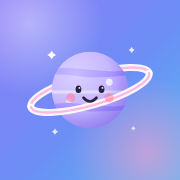
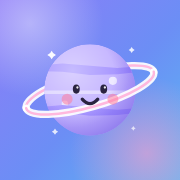
行星统一大小

Changed region(s): [[0.1111, 0.2222, 0.8889, 0.75]]

diff --git a/planets.js b/planets.js
@@ -4,7 +4,7 @@
 
 const PLANET_PERIOD = 2.4;
 /** key、中英文名、颜色、自转秒数（dir = -1 倒着转）、花纹、环、脸的颜色。最后一颗是紫色的品牌星。 */
-const PLANETS = [{"key":"mercury","zh":"水星","en":"Mercury","body":"#B9B4C9","shade":"#7E7894","dur":50,"dir":1,"scale":1.0,"extent":1.0,"spin":[["M-0.75,-0.35 A0.2,0.2 0 1,0 -0.35,-0.35 A0.2,0.2 0 1,0 -0.75,-0.35 Z","#9C96B0",1.0],["M0.11,0.45 A0.24,0.24 0 1,0 0.59,0.45 A0.24,0.24 0 1,0 0.11,0.45 Z","#9C96B0",1.0],["M0.38,-0.5 A0.12,0.12 0 1,0 0.62,-0.5 A0.12,0.12 0 1,0 0.38,-0.5 Z","#9C96B0",1.0],["M-1,0.5 A0.15,0.15 0 1,0 -0.7,0.5 A0.15,0.15 0 1,0 -1,0.5 Z","#9C96B0",1.0],["M0.87,0 A0.13,0.13 0 1,0 1.13,0 A0.13,0.13 0 1,0 0.87,0 Z","#9C96B0",1.0],["M-0.2,-0.75 A0.1,0.1 0 1,0 0,-0.75 A0.1,0.1 0 1,0 -0.2,-0.75 Z","#A8A2BB",1.0]],"fixed":[],"rings":[],"face":{"eye":"#2A2340","mouth":"#2A2340","blush":"#FF7E9D","blushA":0.55}},{"key":"venus","zh":"金星","en":"Venus","body":"#F5C66E","shade":"#C98A2E","dur":60,"dir":-1,"scale":1.0,"extent":1.0,"spin":[["M-0.214,-0.12 C-0.221,-0.096,-0.261,-0.076,-0.309,-0.056 C-0.357,-0.037,-0.438,-0.002,-0.5,-0.002 C-0.562,-0.003,-0.633,-0.039,-0.683,-0.059 C-0.733,-0.079,-0.792,-0.097,-0.802,-0.12 C-0.811,-0.143,-0.79,-0.186,-0.74,-0.2 C-0.689,-0.214,-0.579,-0.202,-0.5,-0.202 C-0.421,-0.202,-0.312,-0.212,-0.265,-0.198 C-0.217,-0.185,-0.206,-0.144,-0.214,-0.12 Z","#FFF0CC",0.85],["M0.833,0.3 C0.839,0.32,0.792,0.355,0.744,0.367 C0.697,0.38,0.618,0.374,0.55,0.375 C0.482,0.376,0.377,0.387,0.336,0.374 C0.295,0.361,0.296,0.322,0.303,0.3 C0.311,0.278,0.342,0.26,0.383,0.242 C0.425,0.225,0.496,0.194,0.55,0.194 C0.604,0.195,0.661,0.228,0.708,0.245 C0.755,0.263,0.827,0.28,0.833,0.3 Z","#FFF0CC",0.8],["M1.157,-0.4 C1.154,-0.382,1.152,-0.364,1.126,-0.351 C1.1,-0.338,1.038,-0.319,1,-0.32 C0.962,-0.321,0.928,-0.346,0.895,-0.359 C0.862,-0.373,0.808,-0.385,0.803,-0.4 C0.798,-0.415,0.833,-0.442,0.866,-0.452 C0.899,-0.462,0.953,-0.458,1,-0.459 C1.047,-0.46,1.122,-0.467,1.148,-0.458 C1.175,-0.448,1.161,-0.418,1.157,-0.4 Z","#E9A94F",0.9]],"fixed":[["M-2.4,-0.55 L-1.8,-0.49 L-1.2,-0.55 L-0.6,-0.61 L0,-0.55 L0.6,-0.49 L1.2,-0.55 L1.8,-0.61 L2.4,-0.55 L2.4,-0.3 L1.8,-0.382 L1.2,-0.4 L0.6,-0.318 L0,-0.3 L-0.6,-0.382 L-1.2,-0.4 L-1.8,-0.318 L-2.4,-0.3 Z","#FBE2A8",1.0],["M-2.4,-0.03 L-1.8,0.04 L-1.2,-0.03 L-0.6,-0.1 L0,-0.03 L0.6,0.04 L1.2,-0.03 L1.8,-0.1 L2.4,-0.03 L2.4,0.189 L1.8,0.092 L1.2,0.071 L0.6,0.168 L0,0.189 L-0.6,0.092 L-1.2,0.071 L-1.8,0.168 L-2.4,0.189 Z","#EDB458",1.0],["M-2.4,0.39 L-1.8,0.44 L-1.2,0.39 L-0.6,0.34 L0,0.39 L0.6,0.44 L1.2,0.39 L1.8,0.34 L2.4,0.39 L2.4,0.652 L1.8,0.583 L1.2,0.568 L0.6,0.637 L0,0.652 L-0.6,0.583 L-1.2,0.568 L-1.8,0.637 L-2.4,0.652 Z","#FBE2A8",0.9]],"rings":[],"face":{"eye":"#2A2340","mouth":"#2A2340","blush":"#FF7E9D","blushA":0.55}},{"key":"earth","zh":"地球","en":"Earth","body":"#4DA3F0","shade":"#2563B8","dur":22,"dir":1,"scale":1.0,"extent":1.0,"spin":[["M-0.149,-0.35 C-0.16,-0.279,-0.216,-0.218,-0.282,-0.159 C-0.349,-0.1,-0.463,0.005,-0.55,0.003 C-0.637,0.002,-0.736,-0.108,-0.806,-0.167 C-0.876,-0.226,-0.959,-0.28,-0.973,-0.35 C-0.986,-0.42,-0.956,-0.549,-0.886,-0.59 C-0.815,-0.631,-0.661,-0.597,-0.55,-0.596 C-0.439,-0.595,-0.287,-0.626,-0.221,-0.585 C-0.154,-0.544,-0.139,-0.421,-0.149,-0.35 Z","#5CCB8E",1.0],["M0.885,0.42 C0.881,0.485,0.744,0.548,0.671,0.606 C0.599,0.665,0.534,0.761,0.45,0.769 C0.366,0.778,0.22,0.717,0.167,0.659 C0.114,0.6,0.137,0.504,0.132,0.42 C0.128,0.336,0.084,0.207,0.137,0.157 C0.19,0.106,0.357,0.108,0.45,0.118 C0.543,0.127,0.622,0.164,0.694,0.214 C0.767,0.265,0.888,0.355,0.885,0.42 Z","#5CCB8E",1.0],["M1.228,-0.45 C1.231,-0.408,1.246,-0.34,1.217,-0.317 C1.187,-0.293,1.101,-0.307,1.05,-0.31 C0.999,-0.314,0.948,-0.315,0.91,-0.338 C0.872,-0.361,0.818,-0.416,0.822,-0.45 C0.826,-0.484,0.896,-0.514,0.934,-0.543 C0.972,-0.572,1.006,-0.621,1.05,-0.625 C1.094,-0.63,1.169,-0.598,1.198,-0.569 C1.228,-0.539,1.225,-0.492,1.228,-0.45 Z","#5CCB8E",1.0],["M0.133,0.05 C0.134,0.069,0.161,0.096,0.131,0.108 C0.1,0.119,0.004,0.119,-0.05,0.117 C-0.104,0.114,-0.147,0.106,-0.191,0.095 C-0.234,0.084,-0.31,0.065,-0.309,0.05 C-0.308,0.035,-0.227,0.019,-0.184,0.007 C-0.141,-0.004,-0.102,-0.018,-0.05,-0.021 C0.002,-0.023,0.095,-0.018,0.125,-0.006 C0.156,0.006,0.132,0.031,0.133,0.05 Z","#FFFFFF",0.75],["M-0.621,0.55 C-0.627,0.565,-0.701,0.578,-0.748,0.591 C-0.794,0.605,-0.845,0.63,-0.9,0.631 C-0.955,0.632,-1.038,0.611,-1.077,0.598 C-1.116,0.584,-1.126,0.568,-1.132,0.55 C-1.139,0.532,-1.156,0.502,-1.117,0.492 C-1.078,0.482,-0.967,0.488,-0.9,0.489 C-0.833,0.491,-0.763,0.491,-0.717,0.501 C-0.67,0.511,-0.616,0.535,-0.621,0.55 Z","#FFFFFF",0.7]],"fixed":[],"rings":[],"face":{"eye":"#2A2340","mouth":"#2A2340","blush":"#FF7E9D","blushA":0.55}},{"key":"mars","zh":"火星","en":"Mars","body":"#EC6E45","shade":"#A83D20","dur":23,"dir":1,"scale":1.0,"extent":1.0,"spin":[["M-0.173,0.35 C-0.166,0.391,-0.221,0.46,-0.276,0.485 C-0.33,0.51,-0.421,0.498,-0.5,0.5 C-0.579,0.502,-0.699,0.523,-0.747,0.498 C-0.794,0.473,-0.794,0.394,-0.784,0.35 C-0.775,0.306,-0.74,0.27,-0.692,0.235 C-0.645,0.199,-0.562,0.137,-0.5,0.138 C-0.438,0.139,-0.372,0.205,-0.318,0.241 C-0.264,0.276,-0.18,0.309,-0.173,0.35 Z","#CC5532",1.0],["M0.804,-0.25 C0.808,-0.221,0.743,-0.175,0.7,-0.154 C0.658,-0.134,0.606,-0.129,0.55,-0.125 C0.494,-0.122,0.398,-0.112,0.367,-0.133 C0.335,-0.154,0.354,-0.214,0.359,-0.25 C0.363,-0.286,0.363,-0.322,0.395,-0.348 C0.427,-0.375,0.503,-0.412,0.55,-0.409 C0.597,-0.406,0.636,-0.358,0.678,-0.331 C0.72,-0.305,0.8,-0.279,0.804,-0.25 Z","#CC5532",1.0],["M1.262,0.5 C1.263,0.524,1.195,0.553,1.16,0.573 C1.125,0.593,1.092,0.617,1.05,0.62 C1.008,0.624,0.931,0.616,0.906,0.596 C0.881,0.576,0.902,0.532,0.902,0.5 C0.903,0.468,0.885,0.427,0.909,0.406 C0.934,0.385,1.009,0.372,1.05,0.376 C1.091,0.379,1.122,0.408,1.157,0.428 C1.193,0.449,1.262,0.476,1.262,0.5 Z","#D9603B",1.0]],"fixed":[["M-0.42,-0.95 A0.42,0.2 0 1,0 0.42,-0.95 A0.42,0.2 0 1,0 -0.42,-0.95 Z","#FFF3EC",1.0]],"rings":[],"face":{"eye":"#2A2340","mouth":"#2A2340","blush":"#FF7E9D","blushA":0.55}},{"key":"jupiter","zh":"木星","en":"Jupiter","body":"#EDBB86","shade":"#B5793F","dur":14,"dir":1,"scale":1.0,"extent":1.0,"spin":[["M0.2,0.6 A0.22,0.11 0 1,0 0.64,0.6 A0.22,0.11 0 1,0 0.2,0.6 Z","#CF5B3E",1.0],["M-0.72,-0.3 A0.12,0.05 0 1,0 -0.48,-0.3 A0.12,0.05 0 1,0 -0.72,-0.3 Z","#FFF3E4",0.9],["M-1.05,0.42 A0.1,0.045 0 1,0 -0.85,0.42 A0.1,0.045 0 1,0 -1.05,0.42 Z","#FFF3E4",0.85]],"fixed":[["M-2.4,-0.7 L-1.8,-0.67 L-1.2,-0.7 L-0.6,-0.73 L0,-0.7 L0.6,-0.67 L1.2,-0.7 L1.8,-0.73 L2.4,-0.7 L2.4,-0.515 L1.8,-0.556 L1.2,-0.565 L0.6,-0.524 L0,-0.515 L-0.6,-0.556 L-1.2,-0.565 L-1.8,-0.524 L-2.4,-0.515 Z","#D69460",1.0],["M-2.4,-0.35 L2.4,-0.35 L2.4,-0.25 L-2.4,-0.25 Z","#F7DAB8",1.0],["M-2.4,0.33 L-1.8,0.37 L-1.2,0.33 L-0.6,0.29 L0,0.33 L0.6,0.37 L1.2,0.33 L1.8,0.29 L2.4,0.33 L2.4,0.544 L1.8,0.488 L1.2,0.476 L0.6,0.532 L0,0.544 L-0.6,0.488 L-1.2,0.476 L-1.8,0.532 L-2.4,0.544 Z","#D69460",1.0],["M-2.4,0.7 L2.4,0.7 L2.4,0.8 L-2.4,0.8 Z","#F7DAB8",1.0]],"rings":[],"face":{"eye":"#2A2340","mouth":"#2A2340","blush":"#FF7E9D","blushA":0.55}},{"key":"saturn","zh":"土星","en":"Saturn","body":"#F3D27F","shade":"#C49A3A","dur":15,"dir":1,"scale":0.82,"extent":1.3735,"spin":[["M0.41,-0.48 A0.14,0.06 0 1,0 0.69,-0.48 A0.14,0.06 0 1,0 0.41,-0.48 Z","#FFF4D6",0.85]],"fixed":[["M-2.4,-0.57 L2.4,-0.57 L2.4,-0.43 L-2.4,-0.43 Z","#E6BC62",0.8],["M-2.4,0.49 L2.4,0.49 L2.4,0.61 L-2.4,0.61 Z","#E6BC62",0.8]],"rings":[["M1.572,-0.392 A1.62,0.42 -14 0,0 -1.572,0.392","M1.572,-0.392 A1.62,0.42 -14 0,1 -1.572,0.392",0.2,"#D8B262",1],["M1.572,-0.392 A1.62,0.42 -14 0,0 -1.572,0.392","M1.572,-0.392 A1.62,0.42 -14 0,1 -1.572,0.392",0.07,"#FFF0C4",1]],"face":{"eye":"#2A2340","mouth":"#2A2340","blush":"#FF7E9D","blushA":0.55}},{"key":"uranus","zh":"天王星","en":"Uranus","body":"#84DDE3","shade":"#3FA3AE","dur":18,"dir":-1,"scale":0.92,"extent":1.30088,"spin":[["M-0.57,0.35 A0.12,0.05 0 1,0 -0.33,0.35 A0.12,0.05 0 1,0 -0.57,0.35 Z","#D4F7F8",0.8]],"fixed":[["M-2.4,-0.62 L2.4,-0.62 L2.4,-0.48 L-2.4,-0.48 Z","#A8ECEF",0.9]],"rings":[["M0.344,-1.378 A1.42,0.28 -76 0,0 -0.344,1.378","M0.344,-1.378 A1.42,0.28 -76 0,1 -0.344,1.378",0.07,"#5FBFC8",1]],"face":{"eye":"#2A2340","mouth":"#2A2340","blush":"#FF7E9D","blushA":0.55}},{"key":"neptune","zh":"海王星","en":"Neptune","body":"#5A6BE6","shade":"#2C36A8","dur":18,"dir":1,"scale":1.0,"extent":1.0,"spin":[["M0.21,-0.45 A0.24,0.13 0 1,0 0.69,-0.45 A0.24,0.13 0 1,0 0.21,-0.45 Z","#3B49B8",1.0],["M0.48,-0.25 A0.14,0.04 0 1,0 0.76,-0.25 A0.14,0.04 0 1,0 0.48,-0.25 Z","#E6EAFF",0.9],["M-0.86,0.45 A0.16,0.045 0 1,0 -0.54,0.45 A0.16,0.045 0 1,0 -0.86,0.45 Z","#C9D0FF",0.8]],"fixed":[["M-2.4,0.47 L-1.8,0.5 L-1.2,0.47 L-0.6,0.44 L0,0.47 L0.6,0.5 L1.2,0.47 L1.8,0.44 L2.4,0.47 L2.4,0.555 L1.8,0.514 L1.2,0.505 L0.6,0.546 L0,0.555 L-0.6,0.514 L-1.2,0.505 L-1.8,0.546 L-2.4,0.555 Z","#8D9BFF",0.85],["M-2.4,-0.17 L-1.8,-0.15 L-1.2,-0.17 L-0.6,-0.19 L0,-0.17 L0.6,-0.15 L1.2,-0.17 L1.8,-0.19 L2.4,-0.17 L2.4,-0.113 L1.8,-0.141 L1.2,-0.147 L0.6,-0.119 L0,-0.113 L-0.6,-0.141 L-1.2,-0.147 L-1.8,-0.119 L-2.4,-0.113 Z","#7F8CF5",0.7]],"rings":[],"face":{"eye":"#FFFFFF","mouth":"#FFFFFF","blush":"#FFA6C1","blushA":0.7}},{"key":"pluto","zh":"冥王星","en":"Pluto","body":"#DCC1A2","shade":"#9B7A5A","dur":40,"dir":1,"scale":0.92,"extent":0.92,"spin":[["M0.42,0.944 C-0.048,0.656,0.096,0.296,0.42,0.494 C0.744,0.296,0.888,0.656,0.42,0.944 Z","#F8ECDC",1.0],["M-0.338,-0.3 C-0.344,-0.249,-0.347,-0.198,-0.39,-0.16 C-0.434,-0.122,-0.536,-0.068,-0.6,-0.072 C-0.664,-0.076,-0.72,-0.146,-0.775,-0.184 C-0.829,-0.222,-0.92,-0.256,-0.928,-0.3 C-0.936,-0.344,-0.878,-0.421,-0.823,-0.449 C-0.768,-0.477,-0.678,-0.465,-0.6,-0.467 C-0.522,-0.47,-0.396,-0.493,-0.353,-0.465 C-0.309,-0.437,-0.332,-0.351,-0.338,-0.3 Z","#B8977A",1.0],["M-0.733,0.55 C-0.733,0.582,-0.708,0.63,-0.736,0.649 C-0.763,0.668,-0.851,0.668,-0.9,0.664 C-0.949,0.66,-0.989,0.646,-1.028,0.627 C-1.067,0.608,-1.137,0.575,-1.136,0.55 C-1.134,0.525,-1.061,0.497,-1.022,0.477 C-0.982,0.457,-0.947,0.433,-0.9,0.429 C-0.853,0.425,-0.768,0.434,-0.74,0.454 C-0.713,0.474,-0.734,0.518,-0.733,0.55 Z","#C4A386",1.0]],"fixed":[],"rings":[],"face":{"eye":"#2A2340","mouth":"#2A2340","blush":"#FF7E9D","blushA":0.55}},{"key":"brand","zh":"行星","en":"Planet","body":"#BFAEFF","shade":"#6A55E0","dur":20,"dir":1,"scale":0.84,"extent":1.3708799999999999,"spin":[["M0.41,-0.2 A0.09,0.09 0 1,0 0.59,-0.2 A0.09,0.09 0 1,0 0.41,-0.2 Z","#FFFFFF",0.7],["M-0.62,0.3 A0.07,0.07 0 1,0 -0.48,0.3 A0.07,0.07 0 1,0 -0.62,0.3 Z","#FFFFFF",0.6],["M0.94,0.45 A0.06,0.06 0 1,0 1.06,0.45 A0.06,0.06 0 1,0 0.94,0.45 Z","#FFFFFF",0.6]],"fixed":[["M-2.4,-0.53 L-1.8,-0.48 L-1.2,-0.53 L-0.6,-0.58 L0,-0.53 L0.6,-0.48 L1.2,-0.53 L1.8,-0.58 L2.4,-0.53 L2.4,-0.328 L1.8,-0.397 L1.2,-0.412 L0.6,-0.343 L0,-0.328 L-0.6,-0.397 L-1.2,-0.412 L-1.8,-0.343 L-2.4,-0.328 Z","#9E8BFF",1.0],["M-2.4,0.38 L-1.8,0.43 L-1.2,0.38 L-0.6,0.33 L0,0.38 L0.6,0.43 L1.2,0.38 L1.8,0.33 L2.4,0.38 L2.4,0.562 L1.8,0.493 L1.2,0.478 L0.6,0.547 L0,0.562 L-0.6,0.493 L-1.2,0.478 L-1.8,0.547 L-2.4,0.562 Z","#9E8BFF",1.0],["M-2.4,0.01 L2.4,0.01 L2.4,0.09 L-2.4,0.09 Z","#DCD3FF",1.0]],"rings":[["M1.538,-0.441 A1.6,0.4 -16 0,0 -1.538,0.441","M1.538,-0.441 A1.6,0.4 -16 0,1 -1.538,0.441",0.18,"#FFFFFF",0.92],["M1.538,-0.441 A1.6,0.4 -16 0,0 -1.538,0.441","M1.538,-0.441 A1.6,0.4 -16 0,1 -1.538,0.441",0.06,"#FFB8DE",1]],"face":{"eye":"#2A2340","mouth":"#2A2340","blush":"#FF7E9D","blushA":0.55}}];
+const PLANETS = [{"key":"mercury","zh":"水星","en":"Mercury","body":"#B9B4C9","shade":"#7E7894","dur":50,"dir":1,"scale":1.0,"extent":1.06,"spin":[["M-0.75,-0.35 A0.2,0.2 0 1,0 -0.35,-0.35 A0.2,0.2 0 1,0 -0.75,-0.35 Z","#9C96B0",1.0],["M0.11,0.45 A0.24,0.24 0 1,0 0.59,0.45 A0.24,0.24 0 1,0 0.11,0.45 Z","#9C96B0",1.0],["M0.38,-0.5 A0.12,0.12 0 1,0 0.62,-0.5 A0.12,0.12 0 1,0 0.38,-0.5 Z","#9C96B0",1.0],["M-1,0.5 A0.15,0.15 0 1,0 -0.7,0.5 A0.15,0.15 0 1,0 -1,0.5 Z","#9C96B0",1.0],["M0.87,0 A0.13,0.13 0 1,0 1.13,0 A0.13,0.13 0 1,0 0.87,0 Z","#9C96B0",1.0],["M-0.2,-0.75 A0.1,0.1 0 1,0 0,-0.75 A0.1,0.1 0 1,0 -0.2,-0.75 Z","#A8A2BB",1.0]],"fixed":[],"rings":[],"face":{"eye":"#2A2340","mouth":"#2A2340","blush":"#FF7E9D","blushA":0.55}},{"key":"venus","zh":"金星","en":"Venus","body":"#F5C66E","shade":"#C98A2E","dur":60,"dir":-1,"scale":1.0,"extent":1.06,"spin":[["M-0.214,-0.12 C-0.221,-0.096,-0.261,-0.076,-0.309,-0.056 C-0.357,-0.037,-0.438,-0.002,-0.5,-0.002 C-0.562,-0.003,-0.633,-0.039,-0.683,-0.059 C-0.733,-0.079,-0.792,-0.097,-0.802,-0.12 C-0.811,-0.143,-0.79,-0.186,-0.74,-0.2 C-0.689,-0.214,-0.579,-0.202,-0.5,-0.202 C-0.421,-0.202,-0.312,-0.212,-0.265,-0.198 C-0.217,-0.185,-0.206,-0.144,-0.214,-0.12 Z","#FFF0CC",0.85],["M0.833,0.3 C0.839,0.32,0.792,0.355,0.744,0.367 C0.697,0.38,0.618,0.374,0.55,0.375 C0.482,0.376,0.377,0.387,0.336,0.374 C0.295,0.361,0.296,0.322,0.303,0.3 C0.311,0.278,0.342,0.26,0.383,0.242 C0.425,0.225,0.496,0.194,0.55,0.194 C0.604,0.195,0.661,0.228,0.708,0.245 C0.755,0.263,0.827,0.28,0.833,0.3 Z","#FFF0CC",0.8],["M1.157,-0.4 C1.154,-0.382,1.152,-0.364,1.126,-0.351 C1.1,-0.338,1.038,-0.319,1,-0.32 C0.962,-0.321,0.928,-0.346,0.895,-0.359 C0.862,-0.373,0.808,-0.385,0.803,-0.4 C0.798,-0.415,0.833,-0.442,0.866,-0.452 C0.899,-0.462,0.953,-0.458,1,-0.459 C1.047,-0.46,1.122,-0.467,1.148,-0.458 C1.175,-0.448,1.161,-0.418,1.157,-0.4 Z","#E9A94F",0.9]],"fixed":[["M-2.4,-0.55 L-1.8,-0.49 L-1.2,-0.55 L-0.6,-0.61 L0,-0.55 L0.6,-0.49 L1.2,-0.55 L1.8,-0.61 L2.4,-0.55 L2.4,-0.3 L1.8,-0.382 L1.2,-0.4 L0.6,-0.318 L0,-0.3 L-0.6,-0.382 L-1.2,-0.4 L-1.8,-0.318 L-2.4,-0.3 Z","#FBE2A8",1.0],["M-2.4,-0.03 L-1.8,0.04 L-1.2,-0.03 L-0.6,-0.1 L0,-0.03 L0.6,0.04 L1.2,-0.03 L1.8,-0.1 L2.4,-0.03 L2.4,0.189 L1.8,0.092 L1.2,0.071 L0.6,0.168 L0,0.189 L-0.6,0.092 L-1.2,0.071 L-1.8,0.168 L-2.4,0.189 Z","#EDB458",1.0],["M-2.4,0.39 L-1.8,0.44 L-1.2,0.39 L-0.6,0.34 L0,0.39 L0.6,0.44 L1.2,0.39 L1.8,0.34 L2.4,0.39 L2.4,0.652 L1.8,0.583 L1.2,0.568 L0.6,0.637 L0,0.652 L-0.6,0.583 L-1.2,0.568 L-1.8,0.637 L-2.4,0.652 Z","#FBE2A8",0.9]],"rings":[],"face":{"eye":"#2A2340","mouth":"#2A2340","blush":"#FF7E9D","blushA":0.55}},{"key":"earth","zh":"地球","en":"Earth","body":"#4DA3F0","shade":"#2563B8","dur":22,"dir":1,"scale":1.0,"extent":1.06,"spin":[["M-0.149,-0.35 C-0.16,-0.279,-0.216,-0.218,-0.282,-0.159 C-0.349,-0.1,-0.463,0.005,-0.55,0.003 C-0.637,0.002,-0.736,-0.108,-0.806,-0.167 C-0.876,-0.226,-0.959,-0.28,-0.973,-0.35 C-0.986,-0.42,-0.956,-0.549,-0.886,-0.59 C-0.815,-0.631,-0.661,-0.597,-0.55,-0.596 C-0.439,-0.595,-0.287,-0.626,-0.221,-0.585 C-0.154,-0.544,-0.139,-0.421,-0.149,-0.35 Z","#5CCB8E",1.0],["M0.885,0.42 C0.881,0.485,0.744,0.548,0.671,0.606 C0.599,0.665,0.534,0.761,0.45,0.769 C0.366,0.778,0.22,0.717,0.167,0.659 C0.114,0.6,0.137,0.504,0.132,0.42 C0.128,0.336,0.084,0.207,0.137,0.157 C0.19,0.106,0.357,0.108,0.45,0.118 C0.543,0.127,0.622,0.164,0.694,0.214 C0.767,0.265,0.888,0.355,0.885,0.42 Z","#5CCB8E",1.0],["M1.228,-0.45 C1.231,-0.408,1.246,-0.34,1.217,-0.317 C1.187,-0.293,1.101,-0.307,1.05,-0.31 C0.999,-0.314,0.948,-0.315,0.91,-0.338 C0.872,-0.361,0.818,-0.416,0.822,-0.45 C0.826,-0.484,0.896,-0.514,0.934,-0.543 C0.972,-0.572,1.006,-0.621,1.05,-0.625 C1.094,-0.63,1.169,-0.598,1.198,-0.569 C1.228,-0.539,1.225,-0.492,1.228,-0.45 Z","#5CCB8E",1.0],["M0.133,0.05 C0.134,0.069,0.161,0.096,0.131,0.108 C0.1,0.119,0.004,0.119,-0.05,0.117 C-0.104,0.114,-0.147,0.106,-0.191,0.095 C-0.234,0.084,-0.31,0.065,-0.309,0.05 C-0.308,0.035,-0.227,0.019,-0.184,0.007 C-0.141,-0.004,-0.102,-0.018,-0.05,-0.021 C0.002,-0.023,0.095,-0.018,0.125,-0.006 C0.156,0.006,0.132,0.031,0.133,0.05 Z","#FFFFFF",0.75],["M-0.621,0.55 C-0.627,0.565,-0.701,0.578,-0.748,0.591 C-0.794,0.605,-0.845,0.63,-0.9,0.631 C-0.955,0.632,-1.038,0.611,-1.077,0.598 C-1.116,0.584,-1.126,0.568,-1.132,0.55 C-1.139,0.532,-1.156,0.502,-1.117,0.492 C-1.078,0.482,-0.967,0.488,-0.9,0.489 C-0.833,0.491,-0.763,0.491,-0.717,0.501 C-0.67,0.511,-0.616,0.535,-0.621,0.55 Z","#FFFFFF",0.7]],"fixed":[],"rings":[],"face":{"eye":"#2A2340","mouth":"#2A2340","blush":"#FF7E9D","blushA":0.55}},{"key":"mars","zh":"火星","en":"Mars","body":"#EC6E45","shade":"#A83D20","dur":23,"dir":1,"scale":1.0,"extent":1.06,"spin":[["M-0.173,0.35 C-0.166,0.391,-0.221,0.46,-0.276,0.485 C-0.33,0.51,-0.421,0.498,-0.5,0.5 C-0.579,0.502,-0.699,0.523,-0.747,0.498 C-0.794,0.473,-0.794,0.394,-0.784,0.35 C-0.775,0.306,-0.74,0.27,-0.692,0.235 C-0.645,0.199,-0.562,0.137,-0.5,0.138 C-0.438,0.139,-0.372,0.205,-0.318,0.241 C-0.264,0.276,-0.18,0.309,-0.173,0.35 Z","#CC5532",1.0],["M0.804,-0.25 C0.808,-0.221,0.743,-0.175,0.7,-0.154 C0.658,-0.134,0.606,-0.129,0.55,-0.125 C0.494,-0.122,0.398,-0.112,0.367,-0.133 C0.335,-0.154,0.354,-0.214,0.359,-0.25 C0.363,-0.286,0.363,-0.322,0.395,-0.348 C0.427,-0.375,0.503,-0.412,0.55,-0.409 C0.597,-0.406,0.636,-0.358,0.678,-0.331 C0.72,-0.305,0.8,-0.279,0.804,-0.25 Z","#CC5532",1.0],["M1.262,0.5 C1.263,0.524,1.195,0.553,1.16,0.573 C1.125,0.593,1.092,0.617,1.05,0.62 C1.008,0.624,0.931,0.616,0.906,0.596 C0.881,0.576,0.902,0.532,0.902,0.5 C0.903,0.468,0.885,0.427,0.909,0.406 C0.934,0.385,1.009,0.372,1.05,0.376 C1.091,0.379,1.122,0.408,1.157,0.428 C1.193,0.449,1.262,0.476,1.262,0.5 Z","#D9603B",1.0]],"fixed":[["M-0.42,-0.95 A0.42,0.2 0 1,0 0.42,-0.95 A0.42,0.2 0 1,0 -0.42,-0.95 Z","#FFF3EC",1.0]],"rings":[],"face":{"eye":"#2A2340","mouth":"#2A2340","blush":"#FF7E9D","blushA":0.55}},{"key":"jupiter","zh":"木星","en":"Jupiter","body":"#EDBB86","shade":"#B5793F","dur":14,"dir":1,"scale":1.0,"extent":1.06,"spin":[["M0.2,0.6 A0.22,0.11 0 1,0 0.64,0.6 A0.22,0.11 0 1,0 0.2,0.6 Z","#CF5B3E",1.0],["M-0.72,-0.3 A0.12,0.05 0 1,0 -0.48,-0.3 A0.12,0.05 0 1,0 -0.72,-0.3 Z","#FFF3E4",0.9],["M-1.05,0.42 A0.1,0.045 0 1,0 -0.85,0.42 A0.1,0.045 0 1,0 -1.05,0.42 Z","#FFF3E4",0.85]],"fixed":[["M-2.4,-0.7 L-1.8,-0.67 L-1.2,-0.7 L-0.6,-0.73 L0,-0.7 L0.6,-0.67 L1.2,-0.7 L1.8,-0.73 L2.4,-0.7 L2.4,-0.515 L1.8,-0.556 L1.2,-0.565 L0.6,-0.524 L0,-0.515 L-0.6,-0.556 L-1.2,-0.565 L-1.8,-0.524 L-2.4,-0.515 Z","#D69460",1.0],["M-2.4,-0.35 L2.4,-0.35 L2.4,-0.25 L-2.4,-0.25 Z","#F7DAB8",1.0],["M-2.4,0.33 L-1.8,0.37 L-1.2,0.33 L-0.6,0.29 L0,0.33 L0.6,0.37 L1.2,0.33 L1.8,0.29 L2.4,0.33 L2.4,0.544 L1.8,0.488 L1.2,0.476 L0.6,0.532 L0,0.544 L-0.6,0.488 L-1.2,0.476 L-1.8,0.532 L-2.4,0.544 Z","#D69460",1.0],["M-2.4,0.7 L2.4,0.7 L2.4,0.8 L-2.4,0.8 Z","#F7DAB8",1.0]],"rings":[],"face":{"eye":"#2A2340","mouth":"#2A2340","blush":"#FF7E9D","blushA":0.55}},{"key":"saturn","zh":"土星","en":"Saturn","body":"#F3D27F","shade":"#C49A3A","dur":15,"dir":1,"scale":1.0,"extent":1.06,"spin":[["M0.41,-0.48 A0.14,0.06 0 1,0 0.69,-0.48 A0.14,0.06 0 1,0 0.41,-0.48 Z","#FFF4D6",0.85]],"fixed":[["M-2.4,-0.57 L2.4,-0.57 L2.4,-0.43 L-2.4,-0.43 Z","#E6BC62",0.8],["M-2.4,0.49 L2.4,0.49 L2.4,0.61 L-2.4,0.61 Z","#E6BC62",0.8]],"rings":[["M1.407,-0.351 A1.45,0.38 -14 0,0 -1.407,0.351","M1.407,-0.351 A1.45,0.38 -14 0,1 -1.407,0.351",0.17,"#D8B262",1],["M1.407,-0.351 A1.45,0.38 -14 0,0 -1.407,0.351","M1.407,-0.351 A1.45,0.38 -14 0,1 -1.407,0.351",0.06,"#FFF0C4",1]],"face":{"eye":"#2A2340","mouth":"#2A2340","blush":"#FF7E9D","blushA":0.55}},{"key":"uranus","zh":"天王星","en":"Uranus","body":"#84DDE3","shade":"#3FA3AE","dur":18,"dir":-1,"scale":1.0,"extent":1.06,"spin":[["M-0.57,0.35 A0.12,0.05 0 1,0 -0.33,0.35 A0.12,0.05 0 1,0 -0.57,0.35 Z","#D4F7F8",0.8]],"fixed":[["M-2.4,-0.62 L2.4,-0.62 L2.4,-0.48 L-2.4,-0.48 Z","#A8ECEF",0.9]],"rings":[["M0.319,-1.281 A1.32,0.26 -76 0,0 -0.319,1.281","M0.319,-1.281 A1.32,0.26 -76 0,1 -0.319,1.281",0.07,"#5FBFC8",1]],"face":{"eye":"#2A2340","mouth":"#2A2340","blush":"#FF7E9D","blushA":0.55}},{"key":"neptune","zh":"海王星","en":"Neptune","body":"#5A6BE6","shade":"#2C36A8","dur":18,"dir":1,"scale":1.0,"extent":1.06,"spin":[["M0.21,-0.45 A0.24,0.13 0 1,0 0.69,-0.45 A0.24,0.13 0 1,0 0.21,-0.45 Z","#3B49B8",1.0],["M0.48,-0.25 A0.14,0.04 0 1,0 0.76,-0.25 A0.14,0.04 0 1,0 0.48,-0.25 Z","#E6EAFF",0.9],["M-0.86,0.45 A0.16,0.045 0 1,0 -0.54,0.45 A0.16,0.045 0 1,0 -0.86,0.45 Z","#C9D0FF",0.8]],"fixed":[["M-2.4,0.47 L-1.8,0.5 L-1.2,0.47 L-0.6,0.44 L0,0.47 L0.6,0.5 L1.2,0.47 L1.8,0.44 L2.4,0.47 L2.4,0.555 L1.8,0.514 L1.2,0.505 L0.6,0.546 L0,0.555 L-0.6,0.514 L-1.2,0.505 L-1.8,0.546 L-2.4,0.555 Z","#8D9BFF",0.85],["M-2.4,-0.17 L-1.8,-0.15 L-1.2,-0.17 L-0.6,-0.19 L0,-0.17 L0.6,-0.15 L1.2,-0.17 L1.8,-0.19 L2.4,-0.17 L2.4,-0.113 L1.8,-0.141 L1.2,-0.147 L0.6,-0.119 L0,-0.113 L-0.6,-0.141 L-1.2,-0.147 L-1.8,-0.119 L-2.4,-0.113 Z","#7F8CF5",0.7]],"rings":[],"face":{"eye":"#FFFFFF","mouth":"#FFFFFF","blush":"#FFA6C1","blushA":0.7}},{"key":"pluto","zh":"冥王星","en":"Pluto","body":"#DCC1A2","shade":"#9B7A5A","dur":40,"dir":1,"scale":1.0,"extent":1.06,"spin":[["M0.42,0.944 C-0.048,0.656,0.096,0.296,0.42,0.494 C0.744,0.296,0.888,0.656,0.42,0.944 Z","#F8ECDC",1.0],["M-0.338,-0.3 C-0.344,-0.249,-0.347,-0.198,-0.39,-0.16 C-0.434,-0.122,-0.536,-0.068,-0.6,-0.072 C-0.664,-0.076,-0.72,-0.146,-0.775,-0.184 C-0.829,-0.222,-0.92,-0.256,-0.928,-0.3 C-0.936,-0.344,-0.878,-0.421,-0.823,-0.449 C-0.768,-0.477,-0.678,-0.465,-0.6,-0.467 C-0.522,-0.47,-0.396,-0.493,-0.353,-0.465 C-0.309,-0.437,-0.332,-0.351,-0.338,-0.3 Z","#B8977A",1.0],["M-0.733,0.55 C-0.733,0.582,-0.708,0.63,-0.736,0.649 C-0.763,0.668,-0.851,0.668,-0.9,0.664 C-0.949,0.66,-0.989,0.646,-1.028,0.627 C-1.067,0.608,-1.137,0.575,-1.136,0.55 C-1.134,0.525,-1.061,0.497,-1.022,0.477 C-0.982,0.457,-0.947,0.433,-0.9,0.429 C-0.853,0.425,-0.768,0.434,-0.74,0.454 C-0.713,0.474,-0.734,0.518,-0.733,0.55 Z","#C4A386",1.0]],"fixed":[],"rings":[],"face":{"eye":"#2A2340","mouth":"#2A2340","blush":"#FF7E9D","blushA":0.55}},{"key":"brand","zh":"行星","en":"Planet","body":"#BFAEFF","shade":"#6A55E0","dur":20,"dir":1,"scale":1.0,"extent":1.06,"spin":[["M0.41,-0.2 A0.09,0.09 0 1,0 0.59,-0.2 A0.09,0.09 0 1,0 0.41,-0.2 Z","#FFFFFF",0.7],["M-0.62,0.3 A0.07,0.07 0 1,0 -0.48,0.3 A0.07,0.07 0 1,0 -0.62,0.3 Z","#FFFFFF",0.6],["M0.94,0.45 A0.06,0.06 0 1,0 1.06,0.45 A0.06,0.06 0 1,0 0.94,0.45 Z","#FFFFFF",0.6]],"fixed":[["M-2.4,-0.53 L-1.8,-0.48 L-1.2,-0.53 L-0.6,-0.58 L0,-0.53 L0.6,-0.48 L1.2,-0.53 L1.8,-0.58 L2.4,-0.53 L2.4,-0.328 L1.8,-0.397 L1.2,-0.412 L0.6,-0.343 L0,-0.328 L-0.6,-0.397 L-1.2,-0.412 L-1.8,-0.343 L-2.4,-0.328 Z","#9E8BFF",1.0],["M-2.4,0.38 L-1.8,0.43 L-1.2,0.38 L-0.6,0.33 L0,0.38 L0.6,0.43 L1.2,0.38 L1.8,0.33 L2.4,0.38 L2.4,0.562 L1.8,0.493 L1.2,0.478 L0.6,0.547 L0,0.562 L-0.6,0.493 L-1.2,0.478 L-1.8,0.547 L-2.4,0.562 Z","#9E8BFF",1.0],["M-2.4,0.01 L2.4,0.01 L2.4,0.09 L-2.4,0.09 Z","#DCD3FF",1.0]],"rings":[["M1.394,-0.4 A1.45,0.37 -16 0,0 -1.394,0.4","M1.394,-0.4 A1.45,0.37 -16 0,1 -1.394,0.4",0.16,"#FFFFFF",0.92],["M1.394,-0.4 A1.45,0.37 -16 0,0 -1.394,0.4","M1.394,-0.4 A1.45,0.37 -16 0,1 -1.394,0.4",0.055,"#FFB8DE",1]],"face":{"eye":"#2A2340","mouth":"#2A2340","blush":"#FF7E9D","blushA":0.55}}];
 const PLANETS_NINE = PLANETS.slice(0, 9);
 const PLANET_BRAND = PLANETS[9];
 const planetByKey = (k) => PLANETS.find((p) => p.key === k) ?? null;
@@ -31,7 +31,7 @@ function planetSvg(p, { px = 48, mood = 1, spin = true, face = true, cls = '', l
   const faceSvg = !face ? '' : PLANET_EYES.map(([x, y]) => `<ellipse cx="${x}" cy="${y}" rx=".075" ry=".1" fill="${p.face.eye}"/>${p.face.eye !== '#FFFFFF' ? `<circle cx="${x + 0.025}" cy="${y - 0.035}" r=".025" fill="#fff" fill-opacity=".9"/>` : ''}`).join('')
     + [-0.5, 0.5].map((x) => `<circle cx="${x}" cy=".2" r=".12" fill="${p.face.blush}" fill-opacity="${p.face.blushA}"/>`).join('')
     + `<path d="${PLANET_MOUTH[mood > 0 ? 1 : mood < 0 ? -1 : 0]}" fill="none" stroke="${p.face.mouth}" stroke-width=".07" stroke-linecap="round"/>`;
-  return `<svg class="planet${cls ? ' ' + cls : ''}" viewBox="${-E} ${-E} ${2 * E} ${2 * E}" width="${px}" height="${px}" ${label ? `role="img" aria-label="${label}"` : 'aria-hidden="true"'}>
+  return `<svg class="planet${cls ? ' ' + cls : ''}" style="overflow:visible" viewBox="${-E} ${-E} ${2 * E} ${2 * E}" width="${px}" height="${px}" ${label ? `role="img" aria-label="${label}"` : 'aria-hidden="true"'}>
 <defs><clipPath id="${id}c"><path d="${C}"/></clipPath>
 <radialGradient id="${id}s" gradientUnits="userSpaceOnUse" cx="-.3" cy="-.35" r="1.5"><stop offset=".55" stop-color="${p.shade}" stop-opacity="0"/><stop offset="1" stop-color="${p.shade}" stop-opacity=".55"/></radialGradient>
 <radialGradient id="${id}h" gradientUnits="userSpaceOnUse" cx="-.38" cy="-.42" r="1.25"><stop offset="0" stop-color="#fff" stop-opacity=".42"/><stop offset="1" stop-color="#fff" stop-opacity="0"/></radialGradient></defs>

diff --git a/index.html b/index.html
@@ -16,42 +16,42 @@
 <!-- 主屏幕图标 = 外观里选的"桌面图标"（记在 hl.launcherIcon，默认紫色品牌星）；越早换越好，"添加到主屏幕"时 Safari 取的是这时的图标 -->
 <script>try{var p=JSON.parse(localStorage.getItem('hl.launcherIcon'));if(/^(mercury|venus|earth|mars|jupiter|saturn|uranus|neptune|pluto)$/.test(p))document.querySelector('link[rel="apple-touch-icon"]').href='icons/planets/'+p+'-180.png';}catch(e){}</script>
 <link rel="icon" type="image/png" href="icons/favicon-32.png">
-<link rel="stylesheet" href="style.css?v=20261120135722">
-<link rel="stylesheet" href="css/home.css?v=20261120135722">
-<link rel="stylesheet" href="css/stats.css?v=20261120135722">
-<link rel="stylesheet" href="css/tags.css?v=20261120135722">
-<link rel="stylesheet" href="css/import.css?v=20261120135722">
-<link rel="stylesheet" href="css/tidy.css?v=20261120135722">
-<link rel="stylesheet" href="css/extras.css?v=20261120135722">
-<link rel="stylesheet" href="css/editor.css?v=20261120135722">
-<link rel="stylesheet" href="css/ai.css?v=20261120135722">
-<link rel="stylesheet" href="css/cosmos.css?v=20261120135722">
-<link rel="stylesheet" href="css/themes.css?v=20261120135722">
+<link rel="stylesheet" href="style.css?v=20261120135946">
+<link rel="stylesheet" href="css/home.css?v=20261120135946">
+<link rel="stylesheet" href="css/stats.css?v=20261120135946">
+<link rel="stylesheet" href="css/tags.css?v=20261120135946">
+<link rel="stylesheet" href="css/import.css?v=20261120135946">
+<link rel="stylesheet" href="css/tidy.css?v=20261120135946">
+<link rel="stylesheet" href="css/extras.css?v=20261120135946">
+<link rel="stylesheet" href="css/editor.css?v=20261120135946">
+<link rel="stylesheet" href="css/ai.css?v=20261120135946">
+<link rel="stylesheet" href="css/cosmos.css?v=20261120135946">
+<link rel="stylesheet" href="css/themes.css?v=20261120135946">
 </head>
 <body>
 <div id="app"></div>
-<script src="config.js?v=20261120135722"></script>
-<script src="shared.js?v=20261120135722"></script>
-<script src="planets.js?v=20261120135722"></script>
-<script src="icons.js?v=20261120135722"></script>
-<script src="more.js?v=20261120135722"></script>
-<script src="ai.js?v=20261120135722"></script>
+<script src="config.js?v=20261120135946"></script>
+<script src="shared.js?v=20261120135946"></script>
+<script src="planets.js?v=20261120135946"></script>
+<script src="icons.js?v=20261120135946"></script>
+<script src="more.js?v=20261120135946"></script>
+<script src="ai.js?v=20261120135946"></script>
 <!-- 功能模块（和手机端对齐的那些页面），各自往 MOD 里登记 -->
-<script src="modules/budget.js?v=20261120135722"></script>
-<script src="modules/loans.js?v=20261120135722"></script>
-<script src="modules/schedules.js?v=20261120135722"></script>
-<script src="modules/backup.js?v=20261120135722"></script>
-<script src="modules/manage.js?v=20261120135722"></script>
-<script src="modules/editor.js?v=20261120135722"></script>
-<script src="modules/art.js?v=20261120135722"></script>
-<script src="modules/cosmos.js?v=20261120135722"></script>
-<script src="modules/tags.js?v=20261120135722"></script>
-<script src="modules/import.js?v=20261120135722"></script>
-<script src="modules/tidy.js?v=20261120135722"></script>
-<script src="modules/lock.js?v=20261120135722"></script>
-<script src="modules/reminders.js?v=20261120135722"></script>
-<script src="modules/voice.js?v=20261120135722"></script>
-<script src="modules/appearance.js?v=20261120135722"></script>
-<script src="app.js?v=20261120135722"></script>
+<script src="modules/budget.js?v=20261120135946"></script>
+<script src="modules/loans.js?v=20261120135946"></script>
+<script src="modules/schedules.js?v=20261120135946"></script>
+<script src="modules/backup.js?v=20261120135946"></script>
+<script src="modules/manage.js?v=20261120135946"></script>
+<script src="modules/editor.js?v=20261120135946"></script>
+<script src="modules/art.js?v=20261120135946"></script>
+<script src="modules/cosmos.js?v=20261120135946"></script>
+<script src="modules/tags.js?v=20261120135946"></script>
+<script src="modules/import.js?v=20261120135946"></script>
+<script src="modules/tidy.js?v=20261120135946"></script>
+<script src="modules/lock.js?v=20261120135946"></script>
+<script src="modules/reminders.js?v=20261120135946"></script>
+<script src="modules/voice.js?v=20261120135946"></script>
+<script src="modules/appearance.js?v=20261120135946"></script>
+<script src="app.js?v=20261120135946"></script>
 </body>
 </html>

diff --git a/sw.js b/sw.js
@@ -1,7 +1,7 @@
 // 行星记账的离线缓存：网页本身（脚本、样式、图标、字体）缓存在手机上，断网也能打开。
 // 网页代码先走网络（联网时总是最新版），连不上再用缓存；图标、字体、银行 logo 直接用缓存。
 // 云端数据（Supabase）和汇率不经过这里，离线时由页面自己的快照顶上。
-const CACHE = 'huiledger-20261120135722';
+const CACHE = 'huiledger-20261120135946';
 const SHELL = ['./', 'index.html', 'style.css', 'config.js', 'shared.js', 'planets.js', 'icons.js', 'more.js', 'ai.js', 'app.js', 'modules/budget.js', 'modules/loans.js', 'modules/schedules.js', 'modules/backup.js', 'modules/manage.js', 'modules/editor.js', 'css/home.css', 'css/stats.css', 'css/themes.css', 'css/tags.css', 'css/import.css', 'css/tidy.css', 'css/extras.css', 'css/editor.css', 'css/ai.css', 'css/cosmos.css', 'modules/appearance.js', 'modules/art.js', 'modules/cosmos.js', 'modules/tags.js', 'modules/import.js', 'modules/tidy.js', 'modules/lock.js', 'modules/reminders.js', 'modules/voice.js', 'manifest.webmanifest', 'icons/icon-180.png', 'icons/icon-192.png', 'icons/icon-512.png',
   ...['brand', 'mercury', 'venus', 'earth', 'mars', 'jupiter', 'saturn', 'uranus', 'neptune', 'pluto'].map((k) => `icons/planets/${k}-180.png`)];
 

diff --git a/download/index.html b/download/index.html
@@ -273,7 +273,7 @@ footer a { color: inherit; }
   </footer>
 </div>
 
-<script src="../planets.js"></script>
+<script src="../planets.js?v=20261120135946"></script>
 <script>
 'use strict';
 // 语言：跟着浏览器，右上角可以切换
